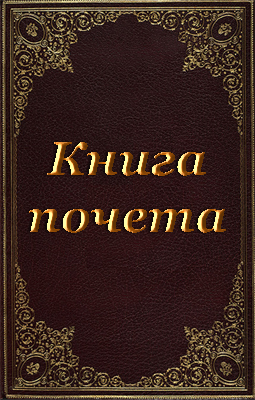
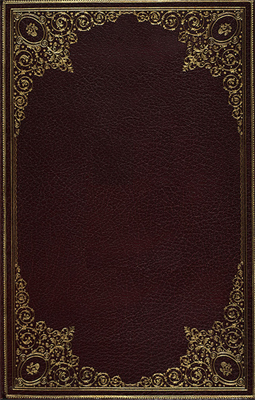
- Продолжение разработки книги почета

Changed region(s): [[0.1098, 0.51, 0.8784, 0.6], [0.1922, 0.33, 0.7961, 0.45]]

diff --git a/js/honorBook.js b/js/honorBook.js
@@ -5,3 +5,276 @@ $(".honorBook").booklet({
 	pageNumbers: false,
 	covers: true,
 });
+
+let honorBook = {
+	listPageAmount: 0,
+	pages: [1, 65535],
+	linkPages: new Map(),
+	addedHonorPage: new Map(),
+	linkArray:[],
+	book: null,
+
+	loadList: function() {
+		let self = this;
+		$.get($.getPath() + "xml/honorBookList.xml", function(xml) {
+			let book = self.parseList(xml);
+			self.formateList(book);
+		});
+	},
+
+	parseList: function(xml) {
+		let book = {
+			pages: [],
+		}
+		$(xml).find("page").each(function() {
+			let page = {
+				sections: [],
+			};
+			$(this).find("section").each(function() {
+				let section = {
+					year: $(this).children("year").text(),
+					items: [],
+				}
+				$(this).find("item").each(function() {
+					let item = {
+						text: $(this).children("text").text(),
+						ref: $(this).children("ref").text(),
+					}
+					section.items.push(item);
+				});
+				page.sections.push(section);
+			});
+			book.pages.push(page);
+		});
+		return book;
+	},
+
+	formateList: function(book) {
+		if (!this.book)
+			return;
+		for (let i = 0; i < book.pages.length; i++) {
+			let page = this.createListPage(book.pages[i]);
+			this.addListPage(page);
+			this.addLinkArray(book.pages[i]);
+		}
+	},
+
+	addLinkArray(page) {
+		for (let i = 0; i < page.sections.length; i++) {
+			let section = page.sections[i];
+			for (let j = 0; j < section.items.length; j++) {
+				let ref = section.items[j].ref;
+				this.linkArray.push(ref);
+				this.linkPages.set(ref, 
+					this.linkPages.size + 1);
+			}
+		}
+	},
+
+	addListPage: function(page) {
+		this.addPage(this.pages.length, page);
+		this.listPageAmount++;
+	},
+
+	addPage: function(pageNumber, page) {
+		if (!this.book)
+			return;
+		let index = this.findNewIndex(pageNumber);
+		this.pages.splice(index, 0, pageNumber);
+		this.book.booklet("add", index + 1, page.outerHTML);
+	},
+
+	findNewIndex: function(pageNumber) {
+		let startIndex = 0;
+		let stopIndex = this.pages.length - 1;
+		if (pageNumber < this.pages[startIndex])
+			return startIndex;
+		if (pageNumber > this.pages[stopIndex])
+			return this.pages.length;
+		let currentIndex = 0;
+		while (startIndex < stopIndex - 1) {
+			if (this.pages[currentIndex] === pageNumber)
+				currentIndex++;
+			else
+				currentIndex = this.div(stopIndex - startIndex, 2)
+				+ startIndex;
+			if (this.pages[currentIndex] <= pageNumber 
+				&& this.pages[currentIndex + 1] > pageNumber) 
+				return currentIndex + 1;
+			else if (this.pages[currentIndex] <= pageNumber)
+				startIndex = currentIndex;
+			else 
+				stopIndex = currentIndex;
+		}
+		return startIndex + 1;
+	},
+
+	createListPage: function(page) {
+		let listPage = this.createTag("div");
+		for (let i = 0; i < page.sections.length; i++) {
+			let listSection = this.createSection(page.sections[i]);
+			listPage.appendChild(listSection);
+		}
+		return listPage;
+	},
+
+	createSection: function(section) {
+		let listSection = this.createTag("div", "honorBook__listSection");
+		let year = this.createYearListItem(section.year);
+		listSection.appendChild(year);
+		for (let i = 0; i < section.items.length; i++) {
+			let item = this.createListItem(section.items[i]);
+			listSection.appendChild(item);
+		}
+		return listSection;
+	},
+
+	createYearListItem: function(year) {
+		let yearItem = this.createTag("p", "honorBook__listYear");
+		yearItem.innerHTML = year;
+		return yearItem;
+	},
+
+	createListItem: function(item) {
+		let listItem = this.createTag("a", "honorBook__listItem");
+		listItem.innerHTML = item.text;
+		listItem.dataset.ref = item.ref;
+		return listItem;
+	},
+
+	createTag: function(tagName, classNames) {
+		let tag = document.createElement(tagName);
+		for (let i = 1; i < arguments.length; i++) {
+			if (arguments[i])
+				tag.classList.add(arguments[i]);
+		}
+		return tag;
+	},
+
+	pageAdded: function(event, data) {
+		/* Глюк в библиотеке, в data.page приходит не 
+		 * добавленная страница. Приходится брать преды-
+		 * дущий фрагмент*/
+		let page = data.page.previousSibling;
+		let links = page.querySelectorAll(".honorBook__listItem");
+		let onClick = this.listLinkClick.bind(this);
+		if(links.length) {
+			for (let i = 0; i < links.length; i++) {
+				links[i].addEventListener("click", onClick);
+			}
+		}
+	},
+
+	listLinkClick: function(event) {
+		event.preventDefault();
+		let link = event.target.dataset.ref;
+		if (!link)
+			return;
+		this.gotoPageBylink(link);
+	},
+
+	gotoPageBylink: function(link) {
+		let pageNumber = this.addedHonorPage.get(link);
+		if (pageNumber) {
+			this.gotoPage(pageNumber);
+			return;
+		}
+		this.loadPage(link);
+	},
+
+	loadPage: function(link, callback) {
+		let self = this;
+		$.get($.getPath() + link, function(xml) {
+			let honor = self.parseHonor(xml, link);
+			if (!honor)
+				return;
+			let pageNumber = self.findNewIndex(honor.id 
+				+ self.listPageAmount + 1) + 1;
+			self.addedHonorPage.set(link, pageNumber);
+			self.addHonorPages(honor);
+			self.gotoPage(pageNumber);
+		});
+	},
+
+	addHonorPages(honor) {
+		if (!honor || !honor.pages || honor.pages.length <= 0)
+			return;
+		for (let i = 0; i < honor.pages.length; i++) {
+			let pageNumber = this.findNewIndex(honor.id
+				+ this.listPageAmount);
+			this.addHonorPage(honor.pages[i], pageNumber);
+		}
+	},
+
+	addHonorPage(honorPage, pageNumber) {
+		let page = null;
+		if (honorPage.photo) {
+			page = this.createHonorPhotoPage(honorPage.photo);
+		} else if (honorPage.text) {
+			page = this.createHonorTextPage(honorPage.text);
+		}
+		if (page) {
+			this.addPage(pageNumber, page);
+		}
+	},
+
+	createHonorPhotoPage(ref) {
+		if (!ref || !ref.length)
+			return null;
+		let section = this.createTag("div", "honorBook__section");
+		let photo = this.createTag("div", "honorBook__photo");
+		photo.style.background = 'center / contain url("'+ ref + '") no-repeat';
+		section.appendChild(photo);
+		return section;
+	},
+
+	findHonorId(link) {
+		return this.linkPages.get(link) || 0;
+	},
+
+	parseHonor: function(xml, link) {
+		if (!link)
+			return null;
+		let honor = {
+			id: this.findHonorId(link),
+			pages: [],
+		}
+		if (!honor.id || honor.id <= 0)
+			return null;
+		$(xml).children("section").find("page")
+			.each(function(){
+				let page = {};
+				let item = $(this).children("photo").text();
+				if (item)
+					page.photo = item;
+				item = $(this).children("text").text();
+				if (item)
+					page.text = item;
+				honor.pages.push(page);
+		});
+		return honor;
+	},
+
+	gotoPage(pageNumber) {
+		if (this.book)
+			this.book.booklet("gotopage", pageNumber);
+	},
+
+	isInt(value) {
+		if (isNaN(value))
+			return false;
+		let x = parseFloat(value);
+		return (x | 0) === x;
+	},
+
+	//целочисленное деление
+	div: function(val, by) {
+		return (val - val % by) / by;
+	}
+}
+
+honorBook.book = $(".honorBook");
+honorBook.book.bind("bookletadd", function(event, data) {
+	honorBook.pageAdded(event, data);
+});
+honorBook.loadList();

diff --git a/honorBook.html b/honorBook.html
@@ -4,8 +4,8 @@
 	<meta charset="UTF-8">
 	<script src="https://code.jquery.com/jquery-3.4.1.min.js"></script>
 	<script src="//code.jquery.com/ui/1.12.1/jquery-ui.min.js"></script>
-	
 	<script src="js/loadDoc.js"></script>
+	<script src="js/path.js"></script>
 	<link rel="stylesheet" href="css/styles.css">
 	<link rel="stylesheet" href="css/jquery.booklet.latest.css">
 	<script src="js/jquery.easing.1.3.js"></script>
@@ -35,23 +35,9 @@
 			<h1 class="caption_lvl1">Книга почета</h1>
 			<div class="honorBook">
 				<div>
-										
+					<img src="images/interface/booklet/bookTitle.png" style="width: 100%; height: 100%" alt="">
 				</div>
-				<div>
-					<h2>Page 2</h2>
-				</div>
-				<div>
-					<h2>Page 3</h2>
-				</div>
-				<div>
-					<h2>Page 4</h2>
-				</div>
-				<div>
-					<h2>Page 5</h2>
-				</div>
-				<div>
-					<h2>Page 6</h2>
-				</div>
+				<div></div>
 			</div>
 			<script src="js/honorBook.js"></script>
 		</article>

diff --git a/scss/styles.scss b/scss/styles.scss
@@ -23,6 +23,12 @@
 @import "common.bloks/headerBanner/_headerBanner.scss";
 @import "common.bloks/headerBanner/_headerBanner__img.scss";
 @import "common.bloks/headerBanner/_headerBanner__titleText.scss";
+@import "common.bloks/honorBook/_honorBook.scss";
+@import "common.bloks/honorBook/_honorBook__listItem.scss";
+@import "common.bloks/honorBook/_honorBook__listSection.scss";
+@import "common.bloks/honorBook/_honorBook__listYear.scss";
+@import "common.bloks/honorBook/_honorBook__photo.scss";
+@import "common.bloks/honorBook/_honorBook__section.scss";
 @import "common.bloks/flexContainer/_flexContainer.scss";
 @import "common.bloks/flexContainer/_flexContainer__size1.scss";
 @import "common.bloks/flexContainer/_flexContainer__size2.scss";

diff --git a/css/styles.css b/css/styles.css
@@ -320,6 +320,32 @@ a[href^="https:"] {
 .headerBanner__titleText_main {
   font-size: 3.4em; }
 
+.honorBook__listItem {
+  cursor: pointer; }
+
+.honorBook__listSection {
+  border-bottom: 2px solid #999;
+  padding: 0 5px 5px;
+  margin-bottom: 5px;
+  display: flex;
+  align-items: flex-start;
+  flex-flow: column; }
+
+.honorBook__listYear {
+  color: #73210e;
+  padding: 0 5px;
+  font-size: 2rem;
+  font-weight: bold;
+  align-self: center; }
+
+.honorBook__photo {
+  width: 100%;
+  height: 100%; }
+
+.honorBook__section {
+  width: 100%;
+  height: 100%; }
+
 .flexContainer {
   display: -webkit-box;
   display: flex; }

diff --git a/scss/common.bloks/honorBook/_honorBook__listSection.scss b/scss/common.bloks/honorBook/_honorBook__listSection.scss
@@ -1,0 +1,8 @@
+.honorBook__listSection {
+	border-bottom: 2px solid #999;
+    padding: 0 5px 5px;
+    margin-bottom: 5px;
+    display: flex;
+    align-items: flex-start;
+    flex-flow: column;
+}

diff --git a/scss/common.bloks/honorBook/_honorBook__listYear.scss b/scss/common.bloks/honorBook/_honorBook__listYear.scss
@@ -1,0 +1,7 @@
+.honorBook__listYear {
+	color: #73210e;
+    padding: 0 5px;
+    font-size: 2rem;
+    font-weight: bold;
+    align-self: center;
+}

diff --git a/scss/common.bloks/honorBook/_honorBook__section.scss b/scss/common.bloks/honorBook/_honorBook__section.scss
@@ -1,0 +1,4 @@
+.honorBook__section {
+	width: 100%;
+	height: 100%;
+}

diff --git a/scss/common.bloks/honorBook/_honorBook__photo.scss b/scss/common.bloks/honorBook/_honorBook__photo.scss
@@ -1,0 +1,4 @@
+.honorBook__photo {
+	width: 100%;
+	height: 100%;	
+}

diff --git a/scss/common.bloks/honorBook/_honorBook__listItem.scss b/scss/common.bloks/honorBook/_honorBook__listItem.scss
@@ -1,0 +1,3 @@
+.honorBook__listItem {
+	cursor: pointer;
+}

diff --git a/scss/common.bloks/honorBook/_honorBook.scss b/scss/common.bloks/honorBook/_honorBook.scss
@@ -1,0 +1,3 @@
+.honorBook {
+	
+}
